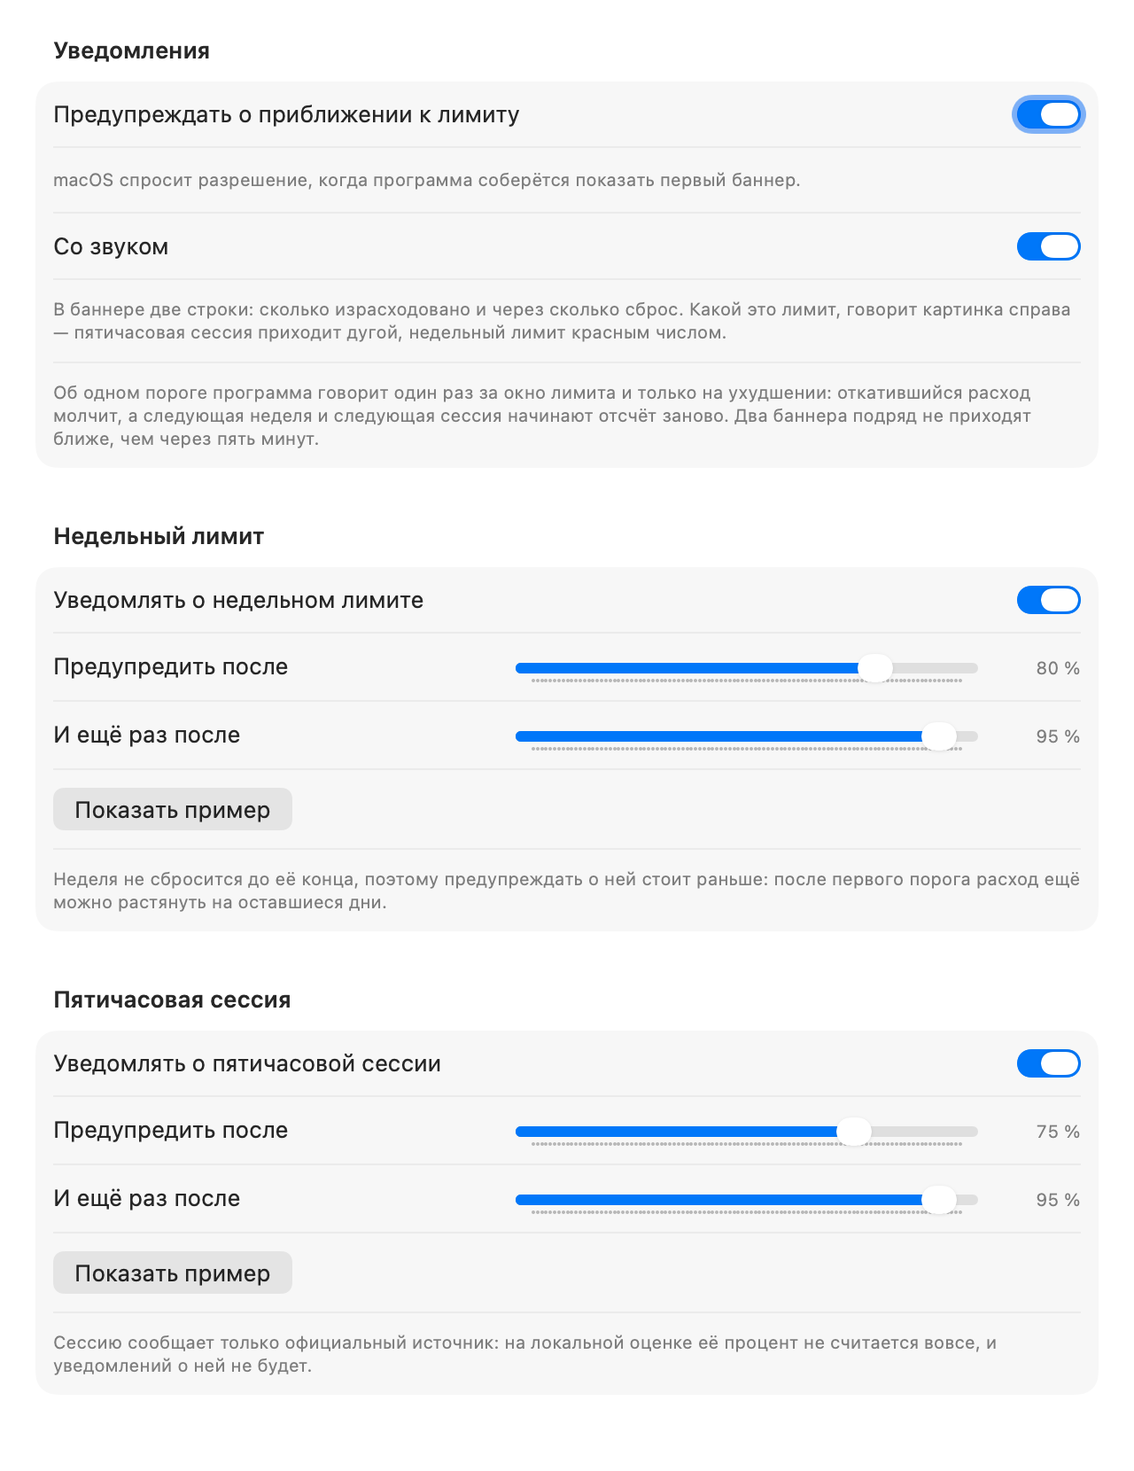
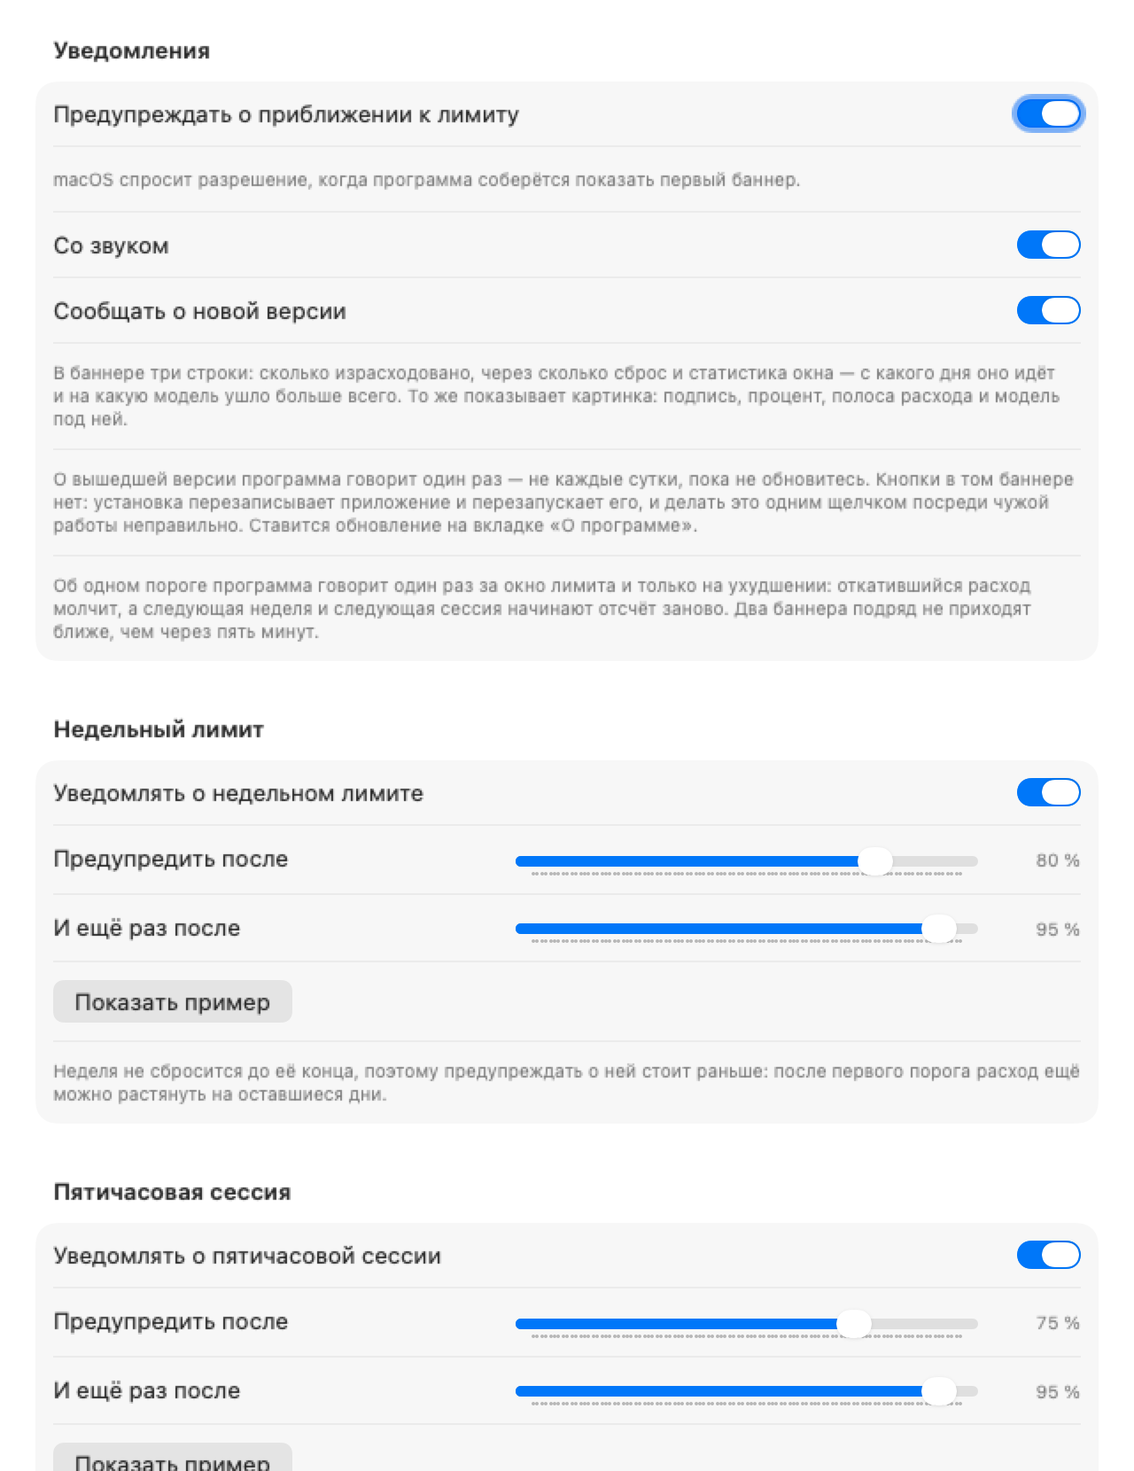
Добавил уведомление о новой версии

diff --git a/Sources/ClaudeWeekCore/Alerts.swift b/Sources/ClaudeWeekCore/Alerts.swift
@@ -82,6 +82,10 @@ public struct NotificationsConfig: Codable, Sendable, Equatable {
     public var sound: Bool
     public var week: LimitNotifications
     public var session: LimitNotifications
+    /// Баннер о вышедшей версии. Отдельно от общего выключателя по смыслу:
+    /// это разговор не про расход, и человек, погасивший разговоры о лимитах,
+    /// не обязательно просил молчать про обновления.
+    public var update: Bool
 
     /// Недельные пороги выше сессионных: неделя не сбросится до конца недели,
     /// и предупреждать о ней надо раньше, чем о пятичасовом окне, которое
@@ -90,12 +94,14 @@ public struct NotificationsConfig: Codable, Sendable, Equatable {
         enabled: Bool = true,
         sound: Bool = true,
         week: LimitNotifications = LimitNotifications(first: 80, second: 95),
-        session: LimitNotifications = LimitNotifications(first: 75, second: 95)
+        session: LimitNotifications = LimitNotifications(first: 75, second: 95),
+        update: Bool = true
     ) {
         self.enabled = enabled
         self.sound = sound
         self.week = week
         self.session = session
+        self.update = update
     }
 
     // Как и во всём конфиге: каждый ключ необязателен, недостающее берётся
@@ -107,7 +113,8 @@ public struct NotificationsConfig: Codable, Sendable, Equatable {
             enabled: try c.decodeIfPresent(Bool.self, forKey: .enabled) ?? d.enabled,
             sound: try c.decodeIfPresent(Bool.self, forKey: .sound) ?? d.sound,
             week: try c.decodeIfPresent(LimitNotifications.self, forKey: .week) ?? d.week,
-            session: try c.decodeIfPresent(LimitNotifications.self, forKey: .session) ?? d.session
+            session: try c.decodeIfPresent(LimitNotifications.self, forKey: .session) ?? d.session,
+            update: try c.decodeIfPresent(Bool.self, forKey: .update) ?? d.update
         )
     }
 
@@ -144,9 +151,9 @@ public struct LimitAlert: Sendable, Equatable {
     /// накапало», которое по одному проценту не прочитать.
     public let startedAt: Date?
     /// Модель, на которую в этом окне ушло больше всего. У недели берётся из
-    /// снимка, у сессии её пока нет: разбивка считается за недельное окно, и
-    /// показать недельную долю в баннере о пятичасовом лимите значило бы
-    /// назвать чужое число своим.
+    /// снимка; у сессии её здесь нет — разбивка в снимке посчитана за неделю,
+    /// и назвать недельную долю в разговоре о пяти часах значило бы выдать
+    /// чужое число за своё. Досчитывает её слой приложения перед отправкой.
     public let topModel: ModelUsage?
 
     public init(
@@ -271,19 +278,25 @@ public struct AlertLog: Codable, Sendable, Equatable {
     public var sessionSaid: Double?
     /// Когда показали последний баннер — на нём держится остывание.
     public var lastSentAt: Date?
+    /// Версия, о выходе которой уже сказали. Про одну и ту же новость
+    /// напоминают ровно раз: проверка обновлений идёт при каждом запуске и раз
+    /// в сутки, и без этой памяти баннер приходил бы каждый день до установки.
+    public var updateSaid: String?
 
     public init(
         weekEnd: Date? = nil,
         weekSaid: Double? = nil,
         sessionEnd: Date? = nil,
         sessionSaid: Double? = nil,
-        lastSentAt: Date? = nil
+        lastSentAt: Date? = nil,
+        updateSaid: String? = nil
     ) {
         self.weekEnd = weekEnd
         self.weekSaid = weekSaid
         self.sessionEnd = sessionEnd
         self.sessionSaid = sessionSaid
         self.lastSentAt = lastSentAt
+        self.updateSaid = updateSaid
     }
 }
 

diff --git a/Sources/ClaudeWeekApp/SettingsView.swift b/Sources/ClaudeWeekApp/SettingsView.swift
@@ -637,15 +637,35 @@ struct NotificationSettings: View {
                 Toggle(s.pick("Со звуком", "With sound"), isOn: sound)
                     .disabled(isOff)
 
+                Toggle(s.pick("Сообщать о новой версии", "Announce a new version"),
+                       isOn: updates)
+
                 Text(s.pick("""
-                В баннере две строки: сколько израсходовано и через сколько \
-                сброс. Какой это лимит, говорит картинка справа — пятичасовая \
-                сессия приходит дугой, недельный лимит красным числом.
+                В баннере три строки: сколько израсходовано, через сколько \
+                сброс и статистика окна — с какого дня оно идёт и на какую \
+                модель ушло больше всего. То же показывает картинка: подпись, \
+                процент, полоса расхода и модель под ней.
                 """, """
-                The banner is two lines: how much is spent and how long until \
-                the reset. Which limit it is comes from the artwork on the \
-                right — the 5-hour session arrives as an arc, the weekly limit \
-                as a red number.
+                The banner is three lines: how much is spent, how long until \
+                the reset, and the window statistics — the day it started and \
+                the model most of it went to. The artwork says the same: the \
+                caption, the percentage, the spend bar and the model below it.
+                """))
+                .font(.caption)
+                .foregroundStyle(.secondary)
+
+                Text(s.pick("""
+                О вышедшей версии программа говорит один раз — не каждые сутки, \
+                пока не обновитесь. Кнопки в том баннере нет: установка \
+                перезаписывает приложение и перезапускает его, и делать это \
+                одним щелчком посреди чужой работы неправильно. Ставится \
+                обновление на вкладке «О программе».
+                """, """
+                A released version is announced once — not daily until you \
+                update. That banner has no button: installing replaces the app \
+                and restarts it, and that should not happen on a single click \
+                in the middle of your work. Updates are installed on the About \
+                tab.
                 """))
                 .font(.caption)
                 .foregroundStyle(.secondary)
@@ -730,6 +750,16 @@ struct NotificationSettings: View {
         Binding(
             get: { notifications.sound },
             set: { model.config.notifications.sound = $0 }
+        )
+    }
+
+    /// Не гаснет вместе с общим тумблером: тот про разговоры о расходе, а
+    /// новая версия — новость другого рода, и молчать о ней человек просит
+    /// отдельно.
+    private var updates: Binding<Bool> {
+        Binding(
+            get: { notifications.update },
+            set: { model.config.notifications.update = $0 }
         )
     }
 

diff --git a/Sources/ClaudeWeekApp/NotificationController.swift b/Sources/ClaudeWeekApp/NotificationController.swift
@@ -147,6 +147,42 @@ final class NotificationController {
     /// одного вопроса незачем.
     var models: ((Date, Date) async -> [ModelUsage])?
 
+    /// Баннер о вышедшей версии. О каждой говорим один раз: проверка идёт при
+    /// запуске и раз в сутки, и без памяти о сказанном напоминание приходило бы
+    /// каждый день, пока не обновишься.
+    ///
+    /// Кнопки в баннере нет намеренно: установка перезаписывает приложение и
+    /// перезапускает его, а такому не место за одним щелчком из-под чужой
+    /// работы. Баннер только сообщает, ставит человек — из настроек.
+    func announceUpdate(_ release: Release, config: Config) {
+        guard center != nil, config.notifications.update else { return }
+        let version = release.version.description
+        guard log.updateSaid != version else { return }
+        log.updateSaid = version
+        save()
+
+        let s = config.strings
+        let content = UNMutableNotificationContent()
+        content.title = s.pick("Вышла версия \(version)", "Version \(version) is out")
+        content.body = s.pick("Обновиться — в настройках, вкладка «О программе»",
+                              "To update, open Settings → About")
+        content.threadIdentifier = "update"
+        if config.notifications.sound { content.sound = .default }
+
+        let request = UNNotificationRequest(
+            identifier: "update-\(version)", content: content, trigger: nil
+        )
+        Task {
+            await authorize()
+            do {
+                try await center?.add(request)
+                Log.info("уведомление: вышла версия \(version)")
+            } catch {
+                Log.warn("не показал уведомление об обновлении: \(error)")
+            }
+        }
+    }
+
     /// Модель, на которую ушло больше всего, досчитываем здесь, если ядро её
     /// не назвало: у пятичасовой сессии разбивки нет вовсе (снимок знает её
     /// только за неделю), а у примера из настроек нет и снимка. Обход

diff --git a/Sources/ClaudeWeekTests/AlertTests.swift b/Sources/ClaudeWeekTests/AlertTests.swift
@@ -256,6 +256,29 @@ func runAlertTests(_ t: Harness) {
                 "отсутствующий файл — пустой лог, а не отказ от уведомлений")
     }
 
+    t.suite("уведомления: новая версия") {
+        t.check(NotificationsConfig().update, "по умолчанию о вышедшей версии говорим")
+
+        // Конфиг, написанный до появления настройки, читается как обычно —
+        // недостающий ключ берётся из дефолтов.
+        let old = Data("""
+        {"enabled":true,"sound":false}
+        """.utf8)
+        let decoded = try JSONDecoder().decode(NotificationsConfig.self, from: old)
+        t.check(decoded.update, "старый конфиг не гасит баннер об обновлении")
+        t.check(!decoded.sound, "а свои ключи из него читаются")
+
+        // Память о сказанном — на диске, рядом с лимитными порогами: иначе
+        // после перезапуска о той же версии напомнили бы снова.
+        let url = FileManager.default.temporaryDirectory
+            .appendingPathComponent("claude-week-alerts-\(UUID().uuidString).json")
+        defer { try? FileManager.default.removeItem(at: url) }
+        try Store.saveAlerts(AlertLog(updateSaid: "0.1.14"), to: url)
+        t.equal(Store.loadAlerts(from: url).updateSaid, "0.1.14",
+                "версия, о которой сказали, переживает перезапуск")
+        t.check(AlertLog().updateSaid == nil, "в новом логе о версиях ещё не говорили")
+    }
+
     t.suite("уведомления: статистика окна") {
         let now = at(2026, 8, 4, 12, 0)
         let calendar = config().calendar

diff --git a/Sources/ClaudeWeekApp/UpdateController.swift b/Sources/ClaudeWeekApp/UpdateController.swift
@@ -14,6 +14,11 @@ final class UpdateController {
     /// конфиг.
     var strings = L10n(Lang.ru)
 
+    /// Нашлась новая версия при самостоятельной проверке. Владелец превращает
+    /// это в баннер: сам контроллер обновлений с уведомлениями не знаком —
+    /// он про GitHub и установку, а не про разговоры с человеком.
+    var onFound: ((Release) -> Void)?
+
     enum State: Equatable {
         /// Ни новостей, ни повода что-то показывать.
         case idle
@@ -123,7 +128,10 @@ final class UpdateController {
                 case .available(let release):
                     Log.info("вышла версия \(release.version), у нас \(ClaudeWeek.version)")
                     state = .available(release)
-                    if manually { offer(release) }
+                    // Нажатая кнопка отвечает окном, самостоятельная проверка —
+                    // баннером: строку внизу панели видит только тот, кто её
+                    // открыл, а обновление ждёт как раз тех, кто не открывает.
+                    if manually { offer(release) } else { onFound?(release) }
                 }
             } catch {
                 let text = (error as? UpdateError)?.message(strings.lang) ?? error.localizedDescription

diff --git a/Sources/ClaudeWeekApp/StatusItemController.swift b/Sources/ClaudeWeekApp/StatusItemController.swift
@@ -56,6 +56,10 @@ final class StatusItemController: NSObject {
         notifications.apply(config.notifications)
         // Разбивку за пятичасовое окно считает провайдер: берём текущий, а не
         // запомненный, — при смене источника в настройках он пересоздаётся.
+        update.onFound = { [weak self] release in
+            guard let self else { return }
+            notifications.announceUpdate(release, config: model.config)
+        }
         notifications.models = { [weak self] from, to in
             // Разбивку умеет считать только `ResolvingProvider` — он и стоит
             // здесь всегда. Каст на случай подмены дублёром: баннер тогда

diff --git a/CHANGELOG.md b/CHANGELOG.md
@@ -33,6 +33,14 @@
   СБ · больше всего Opus 62 %»). У пятичасовой сессии опора не день, а час
   начала, и разбивка для неё считается отдельно — по транскриптам ровно за эти
   пять часов, а не за неделю.
+- **Баннер о новой версии.** Раньше о вышедшем релизе говорила только строка
+  внизу панели — её видел лишь тот, кто панель открывал. Теперь приходит
+  уведомление, по одному на версию, а не каждые сутки до установки. Кнопки в
+  нём нет намеренно: установка перезаписывает приложение и перезапускает его,
+  и делать это одним щелчком посреди чужой работы неправильно — ставится
+  обновление по-прежнему на вкладке «О программе». Выключается отдельным
+  тумблером «Сообщать о новой версии»: он не гаснет вместе с разговорами о
+  лимитах.
 
 ### Изменено
 

diff --git a/docs/USAGE.md b/docs/USAGE.md
@@ -488,6 +488,14 @@ P12_PASSWORD=… ./scripts/signing-cert.sh --import ~/claudeweek-signing.p12
 
 Ту же сводку показывает картинка, и в развёрнутом уведомлении её видно
 целиком — подпись окна, процент, полоса расхода и главная модель под ней.
+Фон у неё прозрачный, поэтому подписи одинаково читаются на обеих темах:
+
+<p align="center">
+  <img src="images/notification-card-week-dark.png" width="120" alt="Карточка недели, тёмная тема">
+  <img src="images/notification-card-week-light.png" width="120" alt="Карточка недели, светлая тема">
+  <img src="images/notification-card-session-dark.png" width="120" alt="Карточка сессии, тёмная тема">
+  <img src="images/notification-card-session-light.png" width="120" alt="Карточка сессии, светлая тема">
+</p>
 
 Разбивка считается за то окно, о котором речь: недельная берётся из снимка, а
 для сессии её досчитывают по транскриптам ровно за эти пять часов. Если за
